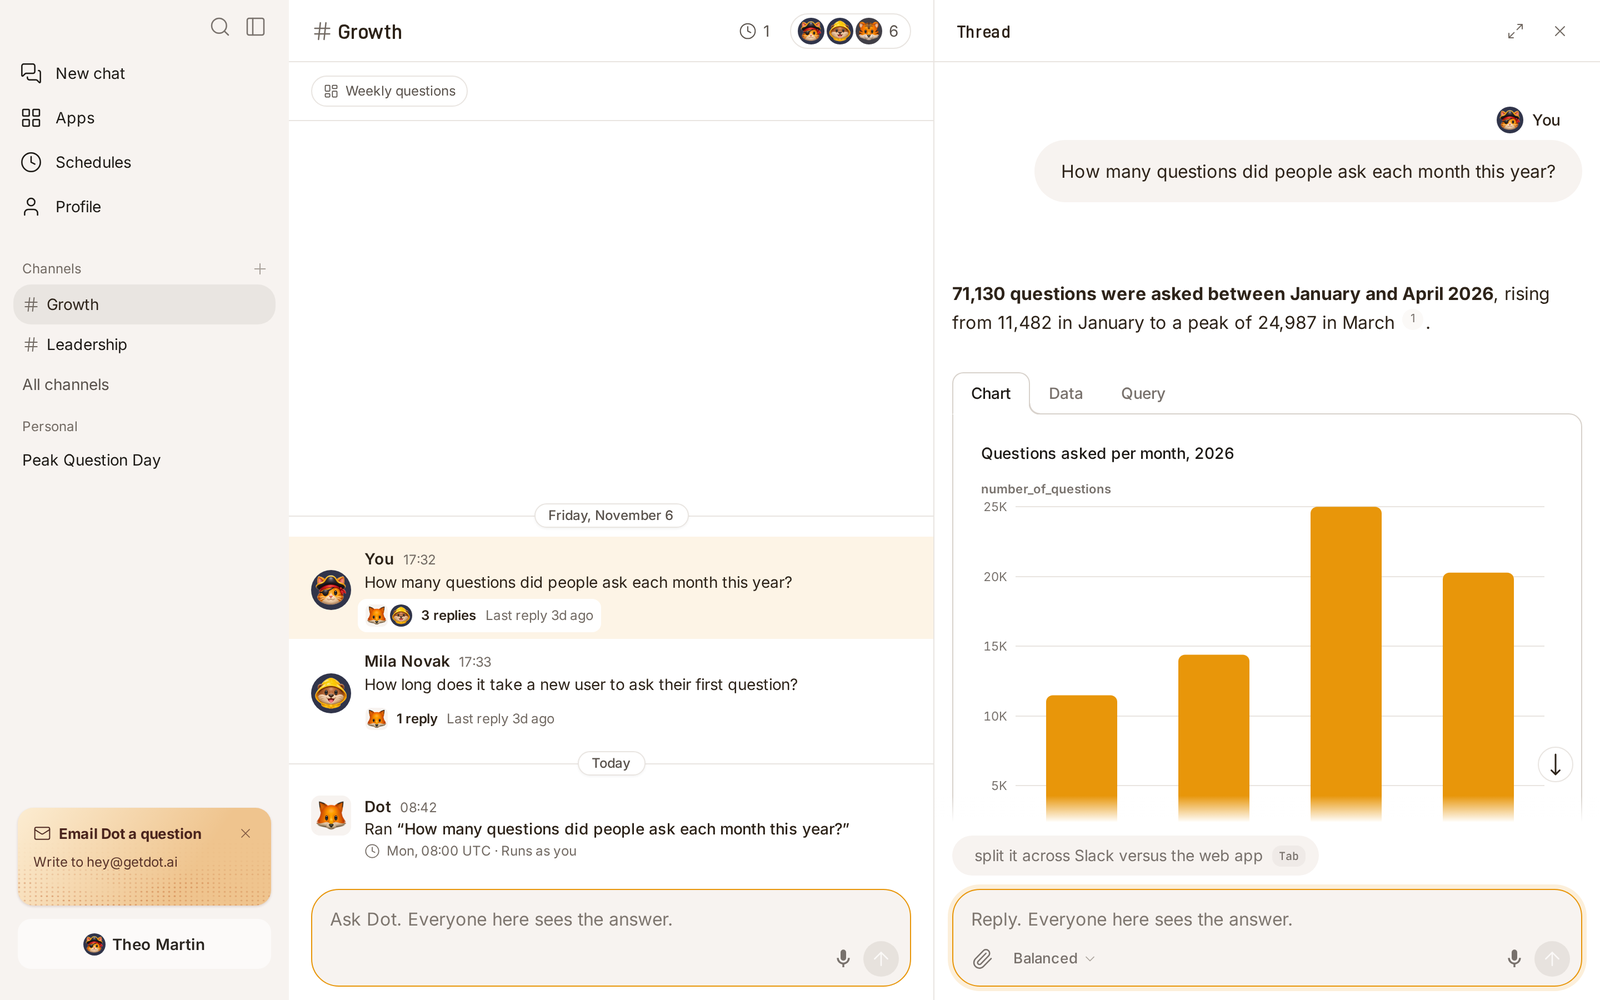
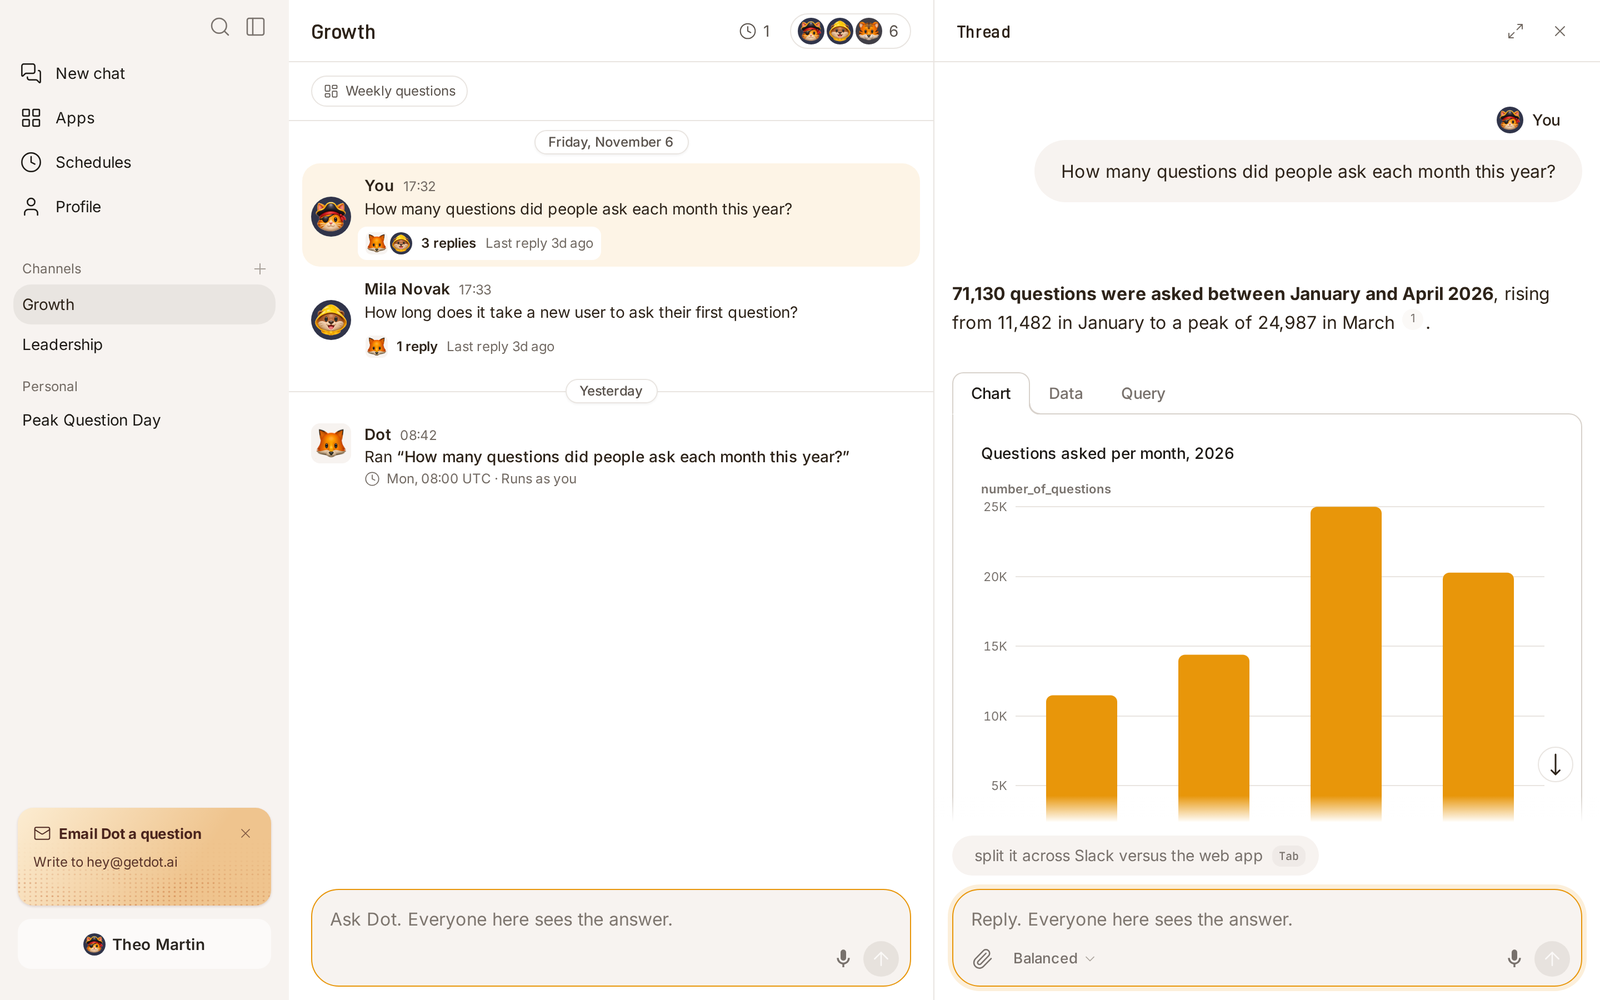
docs: find channels with search; no "#" in pictures
Search finds a channel by its name and teammates' questions in the
channels you can open. All channels is now an admin's list. The
pictures are retaken: channel names without "#", posts from the top
of the channel, and an empty channel's start.

diff --git a/dot/dot/whats-dot/teams.md b/dot/dot/whats-dot/teams.md
@@ -52,9 +52,9 @@ You are always in a channel you start. You and the workspace's admins can rename
 
 <figure><img src="../../.gitbook/assets/team-new-channel.png" alt="The New channel panel with a name, two people who can edit, and Create"><figcaption><p>Name the channel and choose who is in it.</p></figcaption></figure>
 
-<figure><img src="../../.gitbook/assets/team-channel-start.png" alt="An empty channel saying who started it and when, with two suggested first questions above the box to ask Dot"><figcaption><p>A new channel suggests a few first questions.</p></figcaption></figure>
+<figure><img src="../../.gitbook/assets/team-channel-start.png" alt="An empty channel saying who started it and when, with two suggested first questions"><figcaption><p>A new channel suggests a few first questions.</p></figcaption></figure>
 
-**All channels** in the sidebar lists every channel you can open.
+To find a channel, search for its name: click the magnifier at the top of the sidebar, or press ⌘K (Ctrl+K on Windows). Search also finds your teammates' questions in every channel you can open.
 
 ## Apps in a channel
 
@@ -88,7 +88,7 @@ If a teammate asks while you have the chat open, their question and Dot's work a
 
 ## The sidebar
 
-* **Channels** lists the channels you are in. A channel's name is bold when something is new in it since you last looked. **All channels** lists every channel you can open.
+* **Channels** lists the channels you are in. A channel's name is bold when something is new in it since you last looked. Admins also see **All channels**, which lists every channel in the workspace, including the ones they are not in.
 * **Personal** lists your chats that are in no channel. A chat in a channel is a question in that channel.
 
 To make the sidebar wider, for long chat titles or channel names, drag its right edge.
